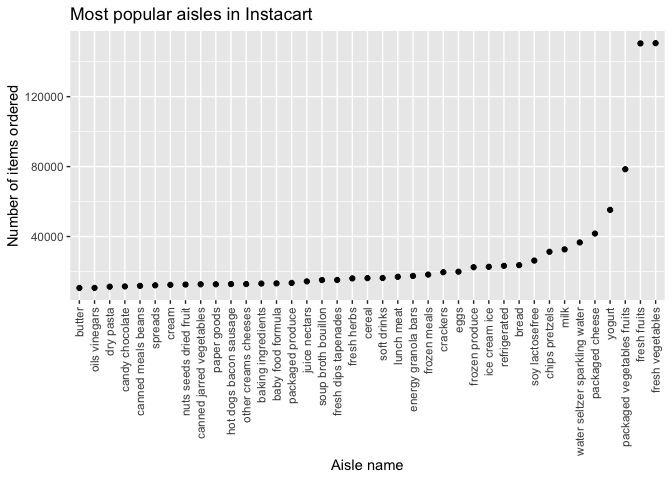
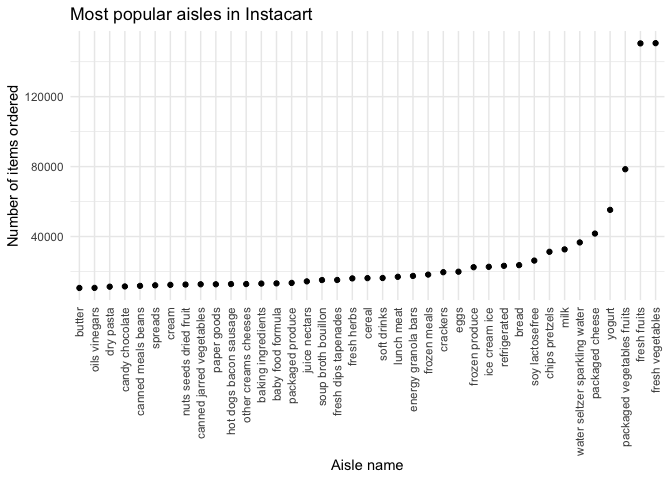
viridis and minimal theme!

diff --git a/p8105_hw3_ll3344.md b/p8105_hw3_ll3344.md
@@ -25,6 +25,22 @@ library(p8105.datasets)
 library(patchwork)
 ```
 
+And set some ggplot preferences:
+
+``` r
+# Minimalist theme
+theme_set(theme_minimal())
+
+# Viridis color scheme for best visualization and color separation
+options(
+  ggplot2.continuous.color = "viridis",
+  ggplot2.continuous.fill = "viridis"
+)
+
+scale_color_discrete = scale_color_viridis_d
+scale_fill_discrete = scale_fill_viridis_d
+```
+
 ## Problem 1
 
 Load the instacart dataset from the p8105 datasets.
@@ -374,7 +390,7 @@ noaa_df %>%
   facet_grid(~month_name) +
   theme(axis.text.x = element_text(angle = 90, vjust = 0.5, hjust=1)) +
   xlab("Year") + 
-  ylab("Average maximum temperature") +
+  ylab("Average maximum temperature (C)") +
   ggtitle("Average maximum temperature across NY stations from 1981-2010 in January and July")
 ```
 
@@ -397,13 +413,19 @@ the patchwork package to link the two graphs.
 tmax_tmin_p = 
   noaa_df %>%
   ggplot(aes(x = tmin, y = tmax)) +
-  geom_bin2d()
+  geom_bin2d() +
+  xlab("Minimum temperature (C)") +
+  ylab("Maximum temperature (C)") +
+  theme(legend.position = "right")
 
 snowfall_p = 
   noaa_df %>%
   filter(snow > 0, snow < 100) %>%
   ggplot(aes(x = year, y = snow)) +
-  geom_violin(aes(fill = year))
+  geom_violin(aes(fill = year)) + 
+  xlab("Year") + 
+  ylab("Snowfall (mm)") +
+  theme(axis.text.x = element_text(angle = 90, vjust = 0.5, hjust=1), legend.position = "none")
 
 tmax_tmin_p/snowfall_p
 ```
